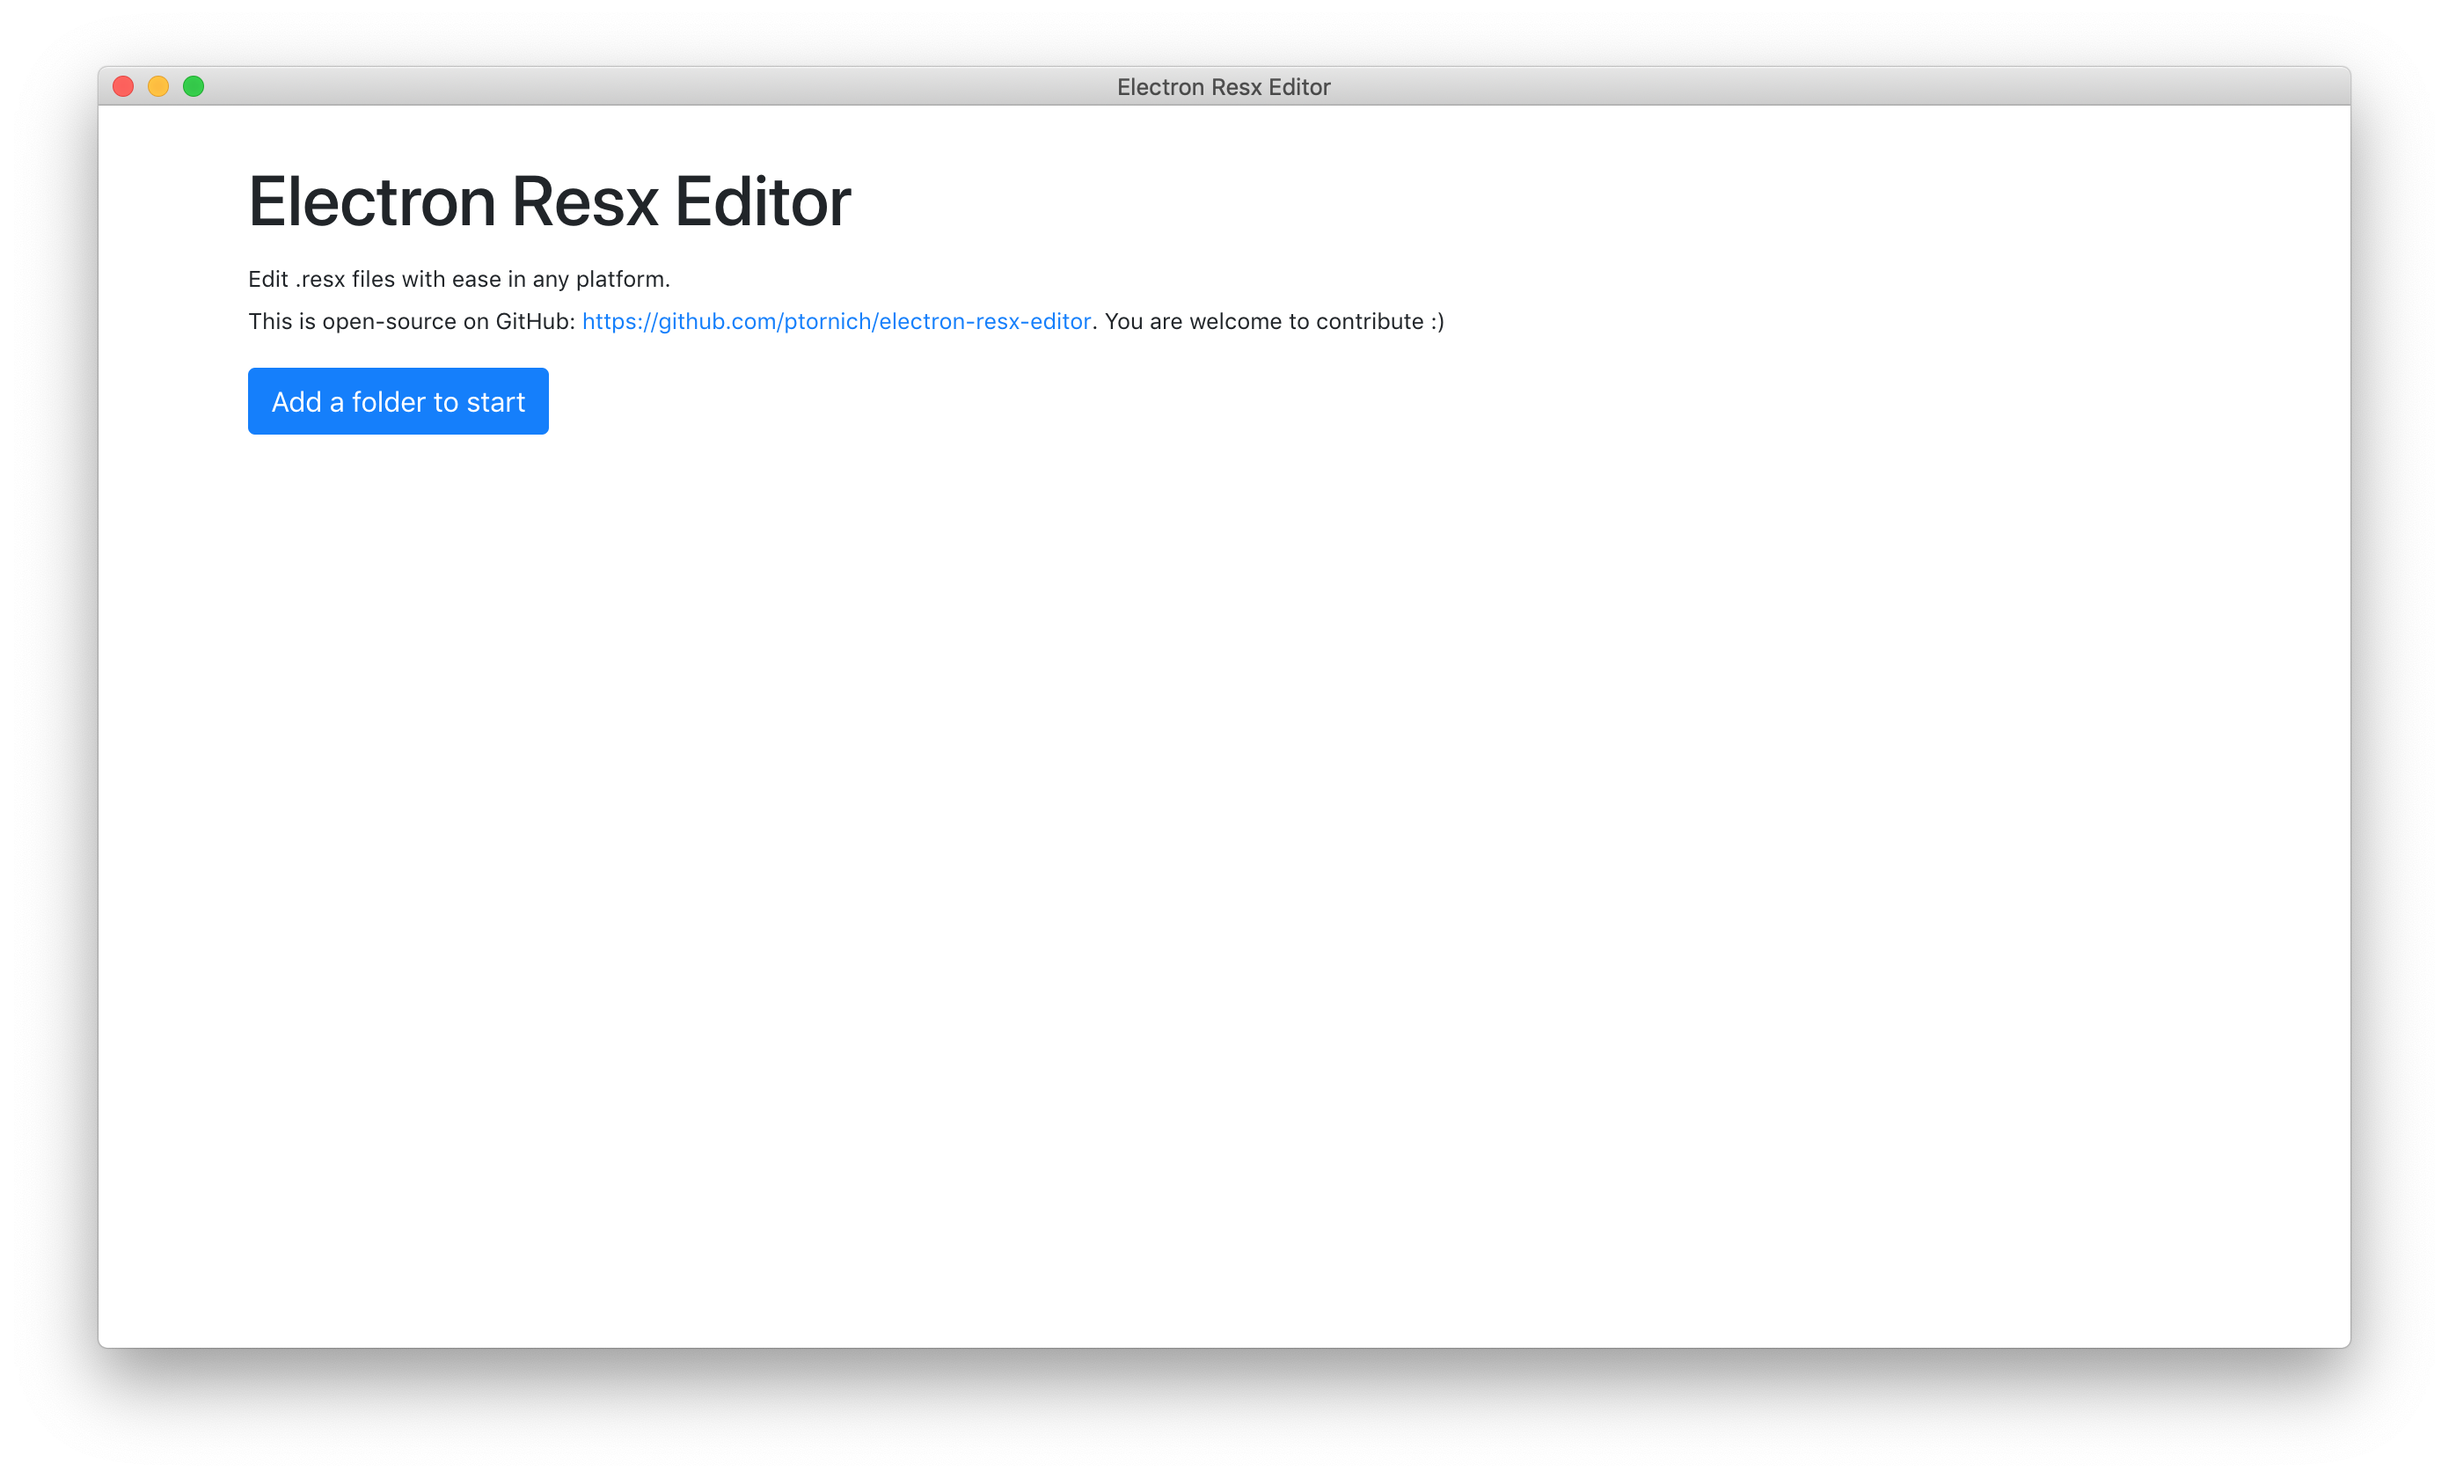
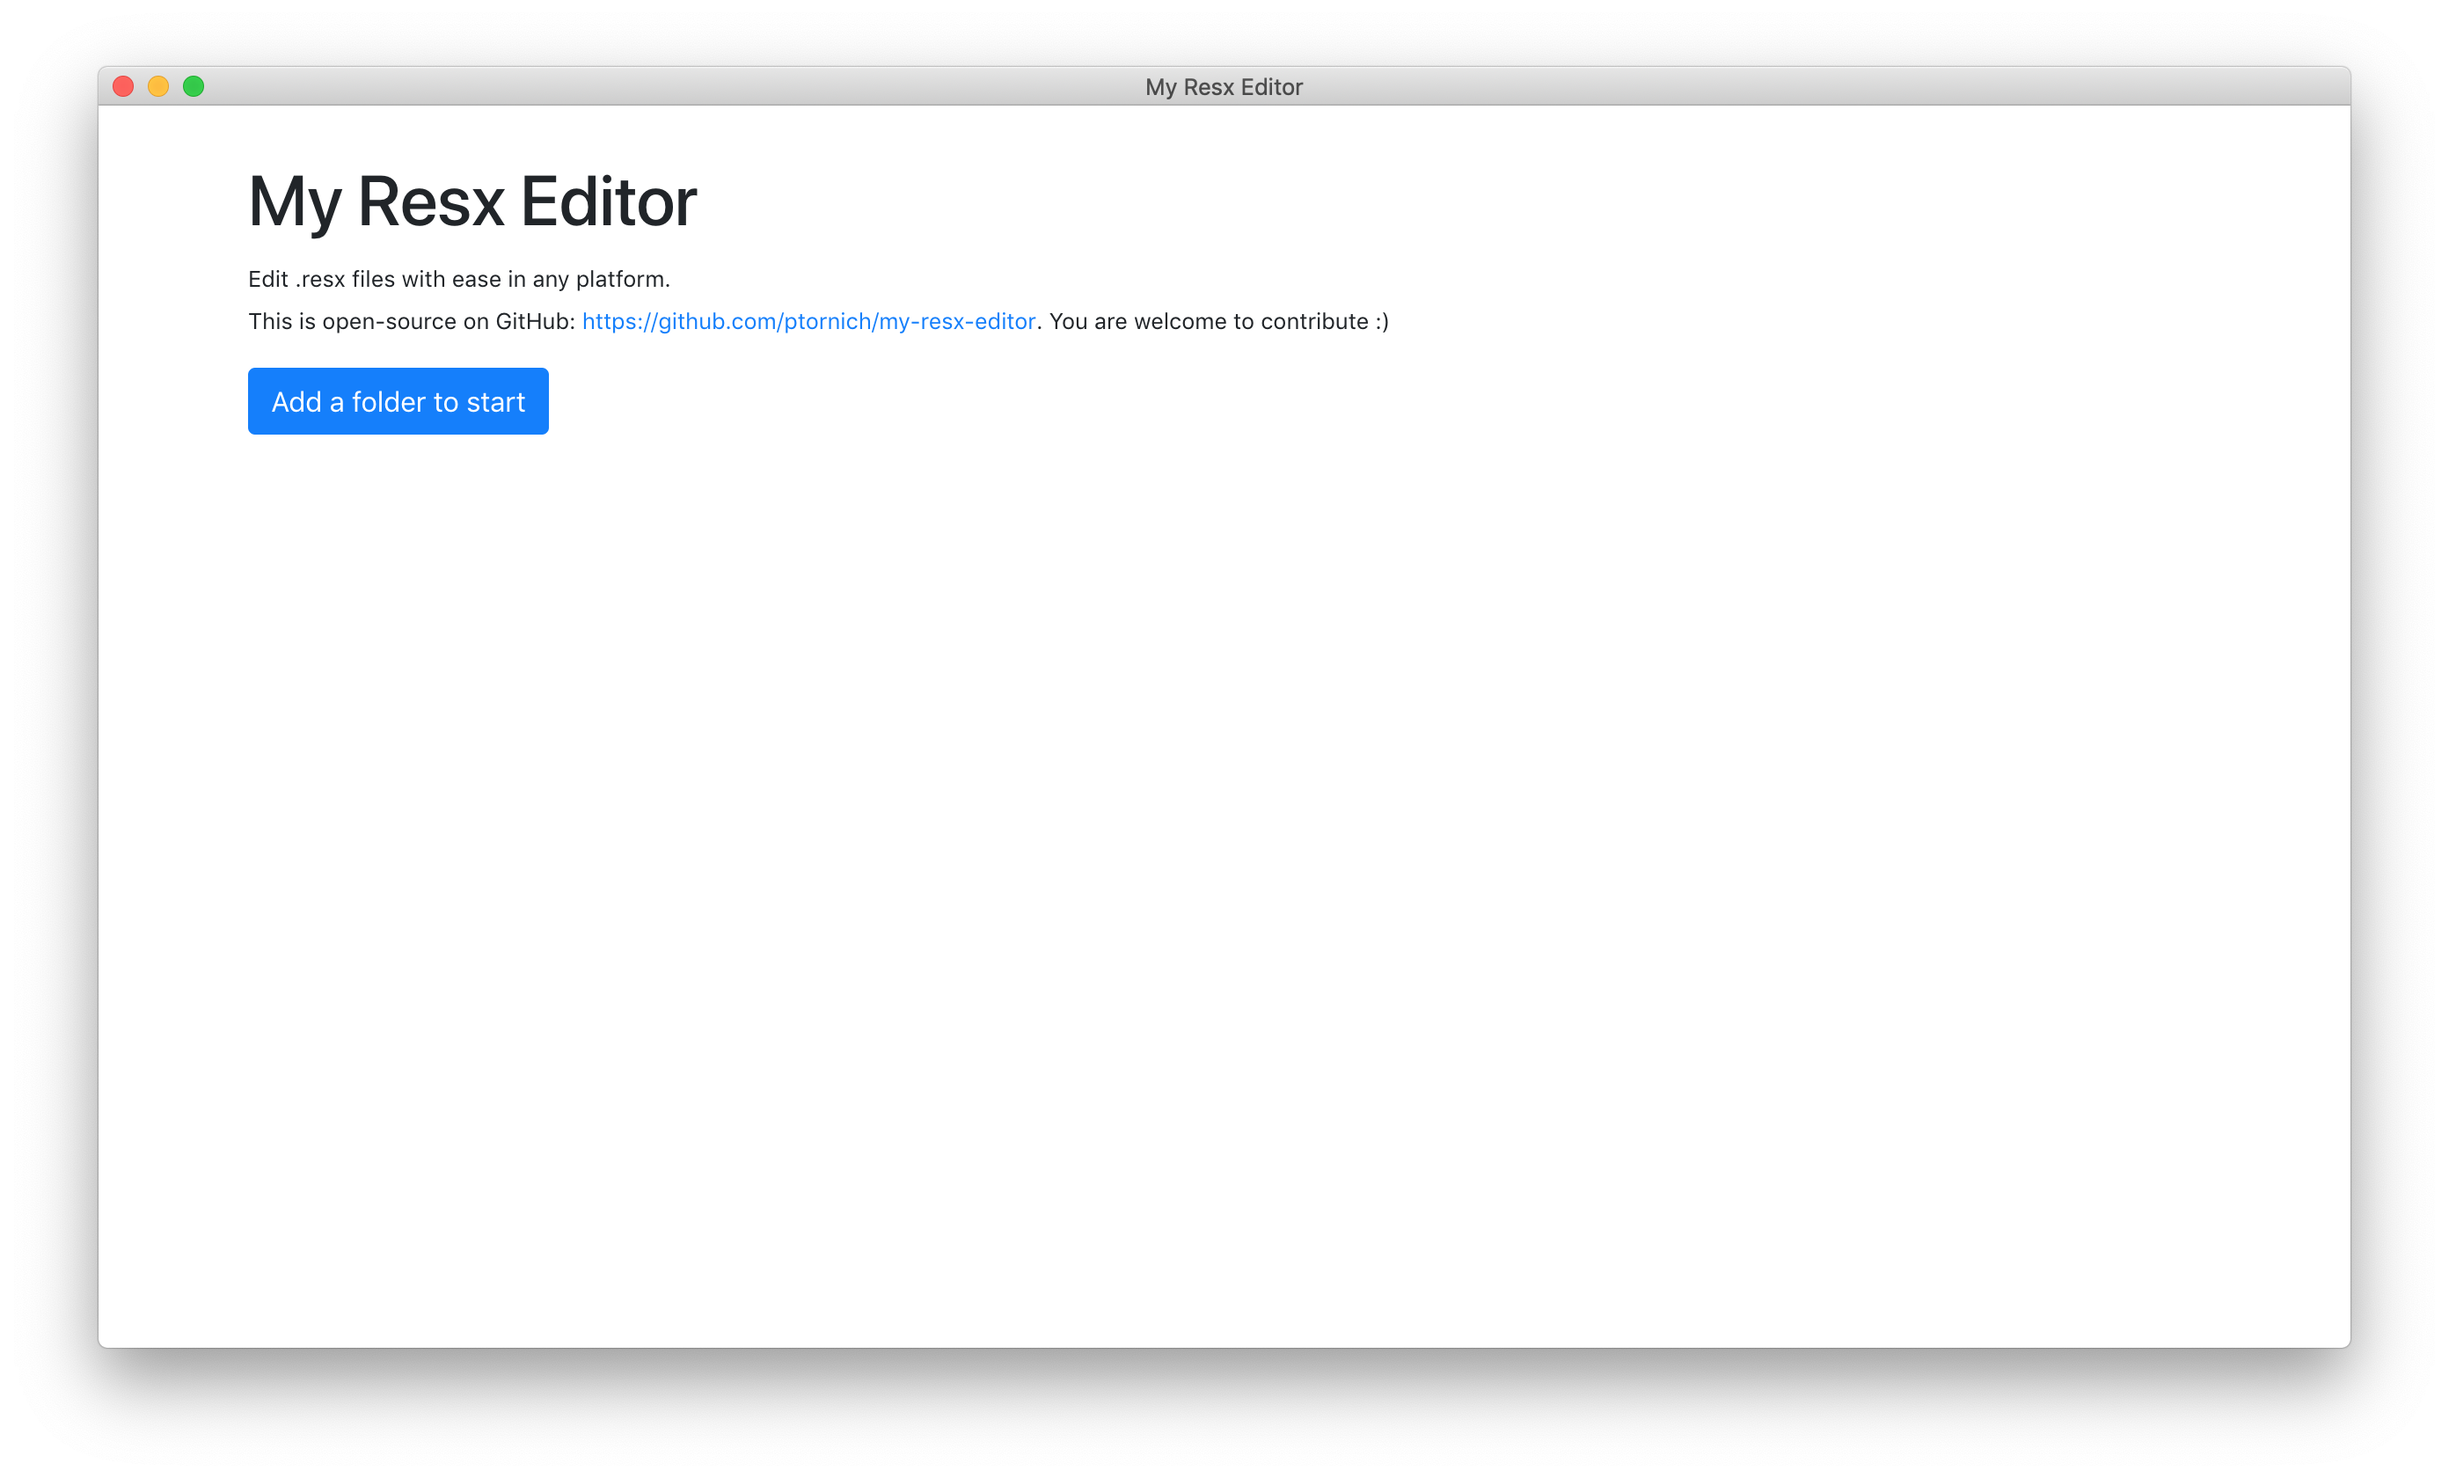
Rename

Changed region(s): [[0.0938, 0.1238, 0.3438, 0.1548], [0.375, 0.2167, 0.5312, 0.2476], [0.4688, 0.031, 0.5312, 0.0619]]

diff --git a/html/index.html b/html/index.html
@@ -20,13 +20,13 @@
 <body>
     <div class="container">
         <br />
-        <h1>Electron Resx Editor</h1>
+        <h1>My Resx Editor</h1>
         <p>
             <small>Edit .resx files with ease in any platform.</small>
             <br/>
             <small>
                 This is open-source on GitHub:
-                <a href="https://github.com/ptornich/electron-resx-editor" target="_blank">https://github.com/ptornich/electron-resx-editor</a>. You are welcome to contribute :)
+                <a class="open-in-browser" href="https://github.com/ptornich/my-resx-editor" target="_blank">https://github.com/ptornich/my-resx-editor</a>. You are welcome to contribute :)
             </small>
         </p>
     </div>

diff --git a/js/renderer.js b/js/renderer.js
@@ -1,4 +1,4 @@
-const { ipcRenderer } = require('electron')
+const { shell, ipcRenderer } = require('electron')
 const path = require('path');
 const fs = require('fs');
 var $ = require('jquery');
@@ -497,6 +497,12 @@ function noFoldersPageReady() {
 }
 
 $(document).ready(function() { 
+    
+    $('.open-in-browser').click((event) => {
+            event.preventDefault();
+            shell.openExternal(event.target.href);
+    }); 
+
     Mousetrap.bind(['command+s', 'ctrl+s'], function() {
         $('#SaveButton').click()
         return false;

diff --git a/html/start.html b/html/start.html
@@ -33,7 +33,7 @@
     </form>
     <br/>
     <div id="ResxTable"></div>
-    <div class="alert" role="alert" id="designer-cs-alert" style="display: none;">
+    <div class="alert" role="alert" id="designer-cs-alert">
         <br/>
         <strong>
             NOTE:<br/>

diff --git a/js/main.js b/js/main.js
@@ -6,7 +6,7 @@ let win
 
 function createWindow () {
     win = new BrowserWindow({
-        title: "Electron Resx Editor",
+        title: "My Resx Editor",
         webPreferences: {
             nodeIntegration: true
         }
